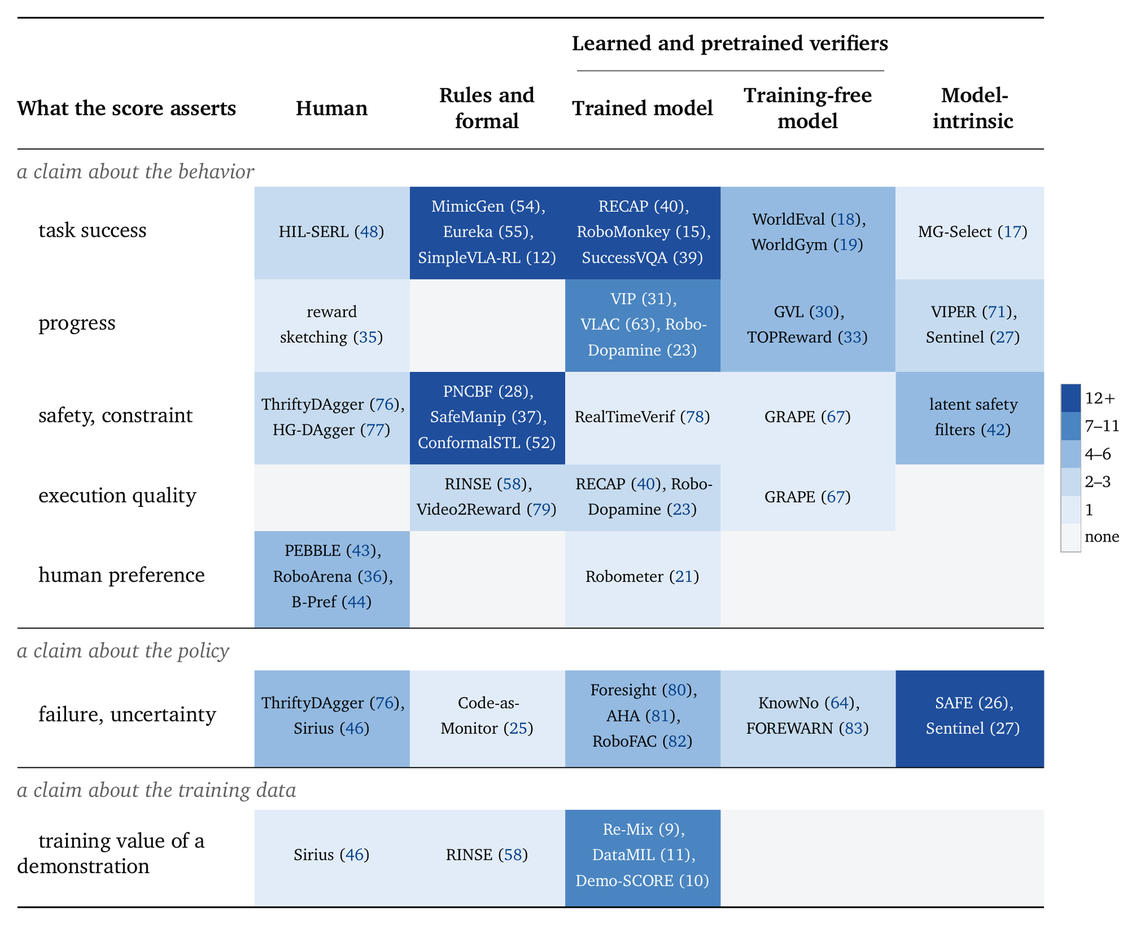
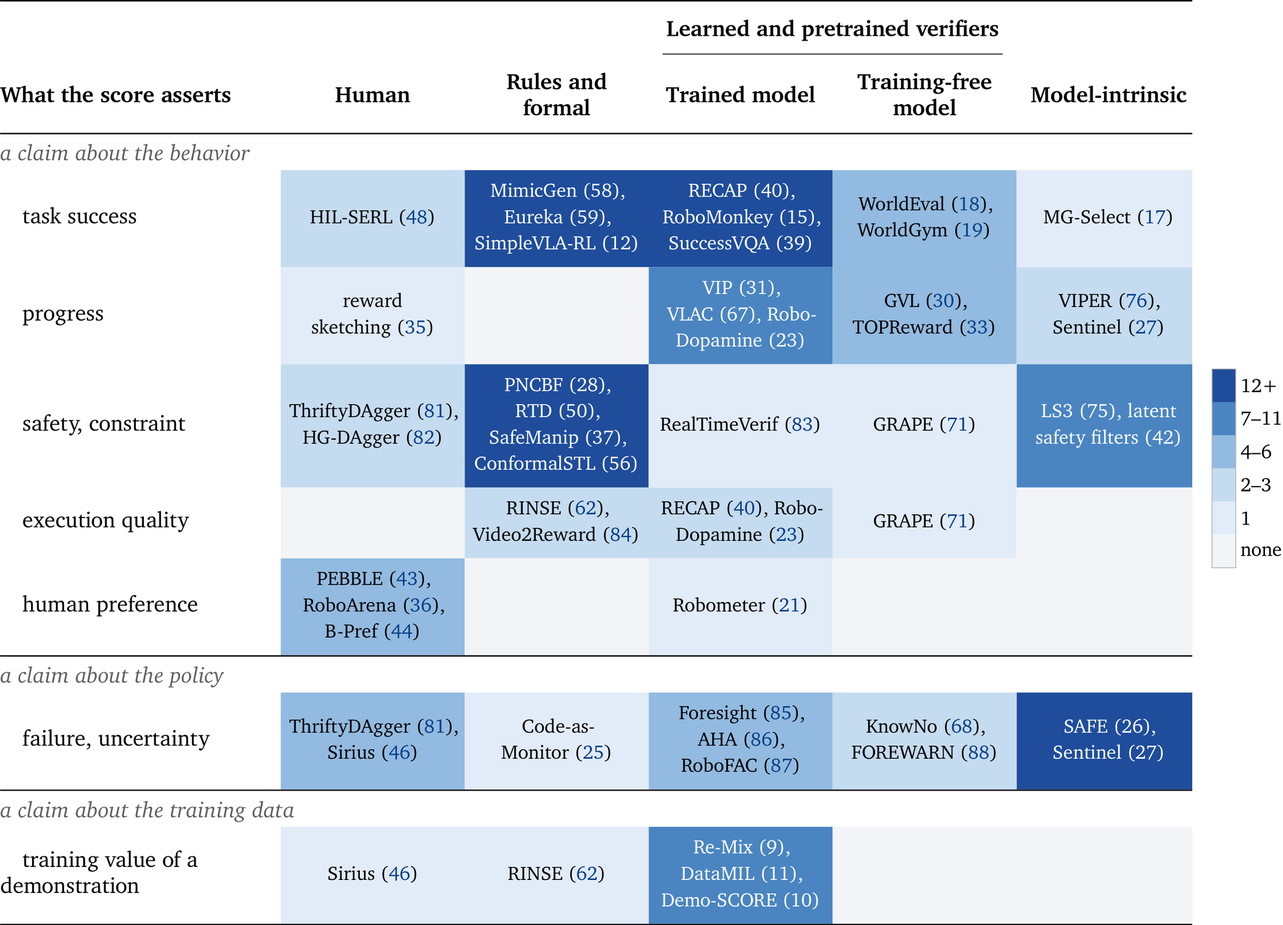
Sync with the survey revision: reachability checks and bib fixes
Regenerated from the survey at jfirst 9c3a272 (changes since a647843).

- 15 new papers: 13 under a new Section 3 group, "Reachability-based
  trajectory checks and safety layers" (RTD, ARMOUR, REFINE, PARC,
  NeuralPARC, Chou et al., Hess et al., fail-safe planning, SaRA, Thumm
  and Althoff, RTS, BRSL, action masking), and LS3 and Lutkus et al.
  under reachability values in Section 5. 184 -> 199 works.
- Corrected records follow refs.bib: CALVIN (RA-L), GRAPE (ICLR
  workshop), and the titles of RoboCasa, LatentSafetyPO, Unhackability.
- build_readme.py: carries the README header edits made by hand, adds
  the new group label, T-RO and ICLR Workshop venue tags, a DOI map
  (tools/dois.json) for the three papers with no arXiv version, and keeps
  a braced organisation author whole (TRI LBM Team, Google DeepMind).
- assets: timeline, property, rules and human re-exported from the
  current PDF and figure sources.
- index.html: counts, the new Section 3 card, the Figure 5 caption, and
  the Table 7 sentence now limited to learned verifiers.

Claude-Session: https://claude.ai/code/session_01EARVwzomiuvZpPbzbKyBgG

diff --git a/index.html b/index.html
@@ -1376,7 +1376,7 @@ table.data td strong { color: var(--ink); }
 
         <p class="hero-subtitle">
           Vision-language-action policies and robot world models are scaling fast, and verification of training
-          data and model behaviour is scaling with them. A curated reading list of <strong>184 works</strong> on
+          data and model behaviour is scaling with them. A curated reading list of <strong>199 works</strong> on
           the mechanisms that supply those verification signals — grouped by
           <strong>who supplies the judgment</strong>, and read along two properties:
           <strong>availability</strong> and <strong>credibility</strong>.
@@ -1433,7 +1433,7 @@ table.data td strong { color: var(--ink); }
 
         <div class="hero-stats" aria-label="Collection statistics">
           <div class="hero-stat">
-            <strong data-count="184">184</strong>
+            <strong data-count="199">199</strong>
             <span>works cataloged</span>
             <small>every one filed exactly once</small>
           </div>
@@ -1709,8 +1709,8 @@ table.data td strong { color: var(--ink); }
           <figure class="figure reveal" style="margin-top: 32px">
             <img
               src="assets/timeline.png"
-              width="1386"
-              height="703"
+              width="2009"
+              height="1011"
               loading="lazy"
               alt="Representative verifier systems plotted by judge source and publication year from 2020 to 2026"
             >
@@ -1757,8 +1757,8 @@ table.data td strong { color: var(--ink); }
           <figure class="figure reveal" style="margin-top: 26px">
             <img
               src="assets/property.png"
-              width="1349"
-              height="779"
+              width="2079"
+              height="1500"
               loading="lazy"
               alt="A table of what a score asserts, plotted against the judge source that supplies the criterion"
             >
@@ -1806,8 +1806,8 @@ table.data td strong { color: var(--ink); }
             <figure class="figure reveal">
               <img
                 src="assets/human.png"
-                width="1800"
-                height="1078"
+                width="3016"
+                height="1500"
                 loading="lazy"
                 alt="Four roles of the human verifier: comparing trajectories, scoring them, intervening during execution, and validating generated rollouts"
               >
@@ -1856,21 +1856,22 @@ table.data td strong { color: var(--ink); }
               available. <strong>Credibility:</strong> strong and sometimes formal guarantees — but only when
               the predefined criteria, state estimates, and dynamics assumptions accurately represent the task.
             </p>
-            <span class="level-total"><strong>43</strong> cataloged works</span>
+            <span class="level-total"><strong>56</strong> cataloged works</span>
           </div>
           <div class="level-layout reverse">
             <figure class="figure reveal">
               <img
                 src="assets/rules.png"
-                width="1536"
-                height="1024"
+                width="1844"
+                height="1500"
                 loading="lazy"
                 alt="Rule-based verifier taxonomy grouped by input type: full trajectory, terminal state, and system model"
               >
               <figcaption class="figure-caption">
                 <strong>Figure 5.</strong> Grouped by what the criterion reads. Temporal-logic scoring, geometric
                 checks, and model-written rules read a full trajectory; a goal predicate reads only the terminal
-                state; invariance certificates and symbolic feasibility checks run over a model of the physics.
+                state; invariance certificates, reachability checks on each candidate trajectory, and symbolic feasibility
+                checks run over a model of the physics.
               </figcaption>
             </figure>
             <div>
@@ -1902,6 +1903,10 @@ table.data td strong { color: var(--ink); }
                 <article class="method-card reveal">
                   <h4>Control barrier functions and safety filters <span class="count-chip">5</span></h4>
                   <p>An invariance certificate proving the robot stays inside a safe set, for every trajectory the dynamics can produce. The theorem applies to the exact value function; a network approximating it carries the guarantee only with a separate verification step.</p>
+                </article>
+                <article class="method-card reveal">
+                  <h4>Reachability-based trajectory checks and safety layers <span class="count-chip">13</span></h4>
+                  <p>Whether the robot can reach an obstacle while tracking one candidate trajectory, from reachable states computed ahead of time. The same check guards a policy's actions while it trains.</p>
                 </article>
                 <article class="method-card reveal">
                   <h4>Symbolic feasibility and task-and-motion planning <span class="count-chip">2</span></h4>
@@ -1995,7 +2000,7 @@ table.data td strong { color: var(--ink); }
               properties of the model itself rather than task performance directly, so their relation to actual
               task success is indirect.
             </p>
-            <span class="level-total"><strong>25</strong> cataloged works</span>
+            <span class="level-total"><strong>27</strong> cataloged works</span>
           </div>
           <div class="level-layout reverse">
             <figure class="figure reveal">
@@ -2031,7 +2036,7 @@ table.data td strong { color: var(--ink); }
                   <p>An imagined rollout is scored down where the learned dynamics model disagrees with itself about it.</p>
                 </article>
                 <article class="method-card reveal">
-                  <h4>Reachability values and latent safety filters <span class="count-chip">7</span></h4>
+                  <h4>Reachability values and latent safety filters <span class="count-chip">9</span></h4>
                   <p>Whether failure can still be avoided from here, computed over a world model's predicted dynamics rather than over how familiar the action looks.</p>
                 </article>
                 <article class="method-card reveal">
@@ -2139,7 +2144,7 @@ table.data td strong { color: var(--ink); }
             <p class="section-subtitle">
               They split by whether the score is used to select or optimized against. The upper block is largely a
               matter of reporting what was already measured; the lower block requires running the verifier against
-              a search, which robotics has yet to do.
+              a search, which robotics has yet to do for a learned verifier.
             </p>
           </div>
 
@@ -2215,7 +2220,7 @@ table.data td strong { color: var(--ink); }
         <div class="wrap">
           <div class="section-head reveal">
             <div class="section-kicker"><span class="badge">≡</span> Reading List</div>
-            <h2 class="section-title">Browse 184 works, each filed exactly once</h2>
+            <h2 class="section-title">Browse 199 works, each filed exactly once</h2>
             <p class="section-subtitle">
               Filed by <strong>what each paper is</strong>, not by the argument the survey cites it for — so a
               category can be searched without reading the survey first. Every entry carries its bibliography key.
@@ -2229,9 +2234,9 @@ table.data td strong { color: var(--ink); }
               <small>Preference, scoring, intervention ↗</small>
             </a>
             <a class="catalog-card reveal" data-site-catalog="rule-based-and-formal-verifiers" target="_blank" rel="noopener noreferrer">
-              <strong>43</strong>
+              <strong>56</strong>
               <span>§3 · Rule-Based &amp; Formal</span>
-              <small>Predicates, temporal logic, certificates ↗</small>
+              <small>Predicates, temporal logic, certificates, reachability ↗</small>
             </a>
             <a class="catalog-card reveal" data-site-catalog="learned-and-pretrained-verifiers" target="_blank" rel="noopener noreferrer">
               <strong>55</strong>
@@ -2239,7 +2244,7 @@ table.data td strong { color: var(--ink); }
               <small>Reward models, success detectors, rankers ↗</small>
             </a>
             <a class="catalog-card reveal" data-site-catalog="model-intrinsic-verifiers" target="_blank" rel="noopener noreferrer">
-              <strong>25</strong>
+              <strong>27</strong>
               <span>§5 · Model-Intrinsic</span>
               <small>Uncertainty, disagreement, reachability ↗</small>
             </a>

diff --git a/tools/build_readme.py b/tools/build_readme.py
@@ -28,7 +28,8 @@ what the survey actually cites and nothing else.
 
 No network access. Links come from the `url` or `doi` field when present, then
 from an arXiv identifier found in `eprint` or in `journal`/`note`/`pages`, then
-from tools/arxiv_ids.json, and fall back to a Google Scholar title search.
+from tools/arxiv_ids.json, then from tools/dois.json for papers that have no
+arXiv version, and fall back to a Google Scholar title search.
 
 tools/arxiv_ids.json maps a citation key to its arXiv identifier. It exists
 because refs.bib now records the venue a paper was finally published in, which
@@ -99,6 +100,12 @@ def clean(s):
 
 
 def authors_short(a):
+    # A first author written as one braced group ({TRI LBM Team}, {Google
+    # DeepMind}) is an organisation; its last word is not a surname.
+    m = re.match(r"\s*\{([^{}]*)\}\s*(and\b|$)", a)
+    if m:
+        org = clean(m.group(1))
+        return org + (" et al." if m.group(2) else "")
     a = clean(a)
     if not a: return ""
     parts = [p.strip() for p in re.split(r"\s+and\s+", a) if p.strip()]
@@ -115,6 +122,10 @@ def authors_short(a):
 
 ARXIV_IDS = json.load(open(os.path.join(os.path.dirname(os.path.abspath(__file__)),
                                         "arxiv_ids.json"), encoding="utf-8"))
+# Papers with no arXiv version at all. refs.bib does not carry their DOI because
+# the survey's bibliography style would print it; the list links it from here.
+DOIS = json.load(open(os.path.join(os.path.dirname(os.path.abspath(__file__)),
+                                   "dois.json"), encoding="utf-8"))
 
 
 def arxiv_id(key, f):
@@ -137,7 +148,8 @@ def link_for(key, f):
     if f.get("url"): return clean(f["url"])
     if f.get("doi"): return "https://doi.org/" + clean(f["doi"])
     aid = arxiv_id(key, f)
-    return "https://arxiv.org/abs/" + aid if aid else ""
+    if aid: return "https://arxiv.org/abs/" + aid
+    return "https://doi.org/" + DOIS[key] if key in DOIS else ""
 
 
 def venue_for(key, f):
@@ -211,6 +223,8 @@ SUBGROUP_LABELS = {
     ("rules", "Sparse reward for reinforcement learning"): "Sparse binary reward for policy training",
     ("rules", "An invariance certificate that holds for every trajectory"):
                                                         "Control barrier functions and safety filters",
+    ("rules", "A reachability check on each candidate trajectory"):
+                                                        "Reachability-based trajectory checks and safety layers",
     ("rules", "A symbolic feasibility check before anything moves"):
                                                         "Symbolic feasibility and task-and-motion planning",
 
@@ -439,6 +453,7 @@ B = {
           "LLM-written reward and monitor code", "Goal predicates in simulation benchmarks",
           "Predicate-filtered demonstration generation", "Sparse binary reward for policy training",
           "Control barrier functions and safety filters",
+          "Reachability-based trajectory checks and safety layers",
           "Symbolic feasibility and task-and-motion planning"]),
  "scorers": dict(head="Learned and pretrained verifiers", anchor="learned-and-pretrained-verifiers", tag="§4",
    desc="A neural model returns the score, either trained on task-specific robot data or queried "
@@ -509,6 +524,7 @@ VENUE_SHORT = [
     ("Transactions on Pattern Analysis",                   "TPAMI"),
     ("Transactions on Neural Networks",                    "TNNLS"),
     ("Transactions on Cyber-Physical Systems",             "ACM TCPS"),
+    ("Transactions on Robotics",                           "T-RO"),
     ("Association for Computational Linguistics",          "ACL"),
     ("International Joint Conference on Artificial Intelligence", "IJCAI"),
     ("European Conference on Artificial Intelligence",     "ECAI"),
@@ -521,6 +537,7 @@ VENUE_SHORT = [
     ("European Control Conference",                        "ECC"),
     ("Conference on Decision and Control",                 "CDC"),
     ("International Conference on Machine Learning",       "ICML"),
+    ("Learning Representations (ICLR) Workshop",           "ICLR Workshop"),
     ("International Conference on Learning Representations", "ICLR"),
     ("Neural Information Processing Systems",              "NeurIPS"),
     ("Conference on Robot Learning",                       "CoRL"),
@@ -530,6 +547,7 @@ VENUE_SHORT = [
 
 
 SITE_URL = "https://zjuscl.github.io/Awesome-Robot-Verifier/"
+ARXIV_URL = "https://arxiv.org/abs/2609.09250"
 CONTACT_EMAIL = "wanyang@zju.edu.cn"
 
 
@@ -576,16 +594,15 @@ def render(REC, SUB, out_path):
     # A plain emoji nav row: each label carries the link, no badge images and no
     # URL set as text.
     w('<p align="center">')
+    w('📄 <a href="%s"><b>arXiv</b></a>&ensp;•&ensp;' % ARXIV_URL)
     w('🌐 <a href="%s"><b>Website</b></a>&ensp;•&ensp;' % SITE_URL)
-    w('🧭 <a href="#how-to-read-an-entry"><b>Taxonomy</b></a>&ensp;•&ensp;')
-    w('🗂 <a href="#contents"><b>Browse</b></a>&ensp;•&ensp;')
+    w('🗂 <a href="#contents"><b>Contents</b></a>&ensp;•&ensp;')
     w('🤝 <a href="CONTRIBUTING.md"><b>Contribute</b></a>')
     w('</p>\n')
-    w('  <!-- TODO(links): add an arXiv entry to the row above once the preprint is public. -->\n')
     w("</div>\n")
-    w("🤝 Contributions are welcome: correct a record the manuscript already uses, or add the paper to the "
+    w("> 🤝 Contributions are welcome: correct a record the manuscript already uses, or add the paper to the "
       "manuscript before proposing it here.\n")
-    w("✉ Contact: %s\n" % CONTACT_EMAIL)
+    w("> ✉ Contact: %s\n" % CONTACT_EMAIL)
     w('<div align="center">')
     w('<img src="assets/teaser.png" width="94%" alt="Availability against credibility, across the four judge sources">')
     w("<br>")

diff --git a/README.md b/README.md
@@ -41,7 +41,7 @@
   - [Scalar and per-timestep annotation](#human.scalar-and-per-timestep-annotation) `1`
   - [Human-in-the-loop intervention](#human.human-in-the-loop-intervention) `8`
   - [Human validation of generated rollouts](#human.human-validation-of-generated-rollouts) `2`
-- [§3 Rule-based and formal verifiers](#rule-based-and-formal-verifiers) `43`
+- [§3 Rule-based and formal verifiers](#rule-based-and-formal-verifiers) `56`
   - [Temporal-logic specifications and satisfaction margins](#rules.temporal-logic-specifications-and-satisfaction-margins) `7`
   - [Trajectory-geometry scoring](#rules.trajectory-geometry-scoring) `1`
   - [LLM-written reward and monitor code](#rules.llm-written-reward-and-monitor-code) `7`
@@ -49,6 +49,7 @@
   - [Predicate-filtered demonstration generation](#rules.predicate-filtered-demonstration-generation) `6`
   - [Sparse binary reward for policy training](#rules.sparse-binary-reward-for-policy-training) `4`
   - [Control barrier functions and safety filters](#rules.control-barrier-functions-and-safety-filters) `5`
+  - [Reachability-based trajectory checks and safety layers](#rules.reachability-based-trajectory-checks-and-safety-layers) `13`
   - [Symbolic feasibility and task-and-motion planning](#rules.symbolic-feasibility-and-task-and-motion-planning) `2`
 - [§4 Learned and pretrained verifiers](#learned-and-pretrained-verifiers) `55`
   - [Dense and process-level reward models](#scorers.dense-and-process-level-reward-models) `15`
@@ -58,12 +59,12 @@
   - [Learned reward for policy optimization](#scorers.learned-reward-for-policy-optimization) `9`
   - [Self-improvement and rollout filtering](#scorers.self-improvement-and-rollout-filtering) `5`
   - [Data curation and demonstration scoring](#scorers.data-curation-and-demonstration-scoring) `9`
-- [§5 Model-intrinsic verifiers](#model-intrinsic-verifiers) `25`
+- [§5 Model-intrinsic verifiers](#model-intrinsic-verifiers) `27`
   - [Runtime failure detection and gating](#intrinsic.runtime-failure-detection-and-gating) `7`
   - [Action selection from policy self-consistency](#intrinsic.action-selection-from-policy-self-consistency) `2`
   - [Generative likelihood and latent discrepancy](#intrinsic.generative-likelihood-and-latent-discrepancy) `3`
   - [Model uncertainty and ensemble disagreement](#intrinsic.model-uncertainty-and-ensemble-disagreement) `4`
-  - [Reachability values and latent safety filters](#intrinsic.reachability-values-and-latent-safety-filters) `7`
+  - [Reachability values and latent safety filters](#intrinsic.reachability-values-and-latent-safety-filters) `9`
   - [Task and environment selection](#intrinsic.task-and-environment-selection) `2`
 
 **Part II — validating a verifier, and what it is pointed at**
@@ -111,7 +112,7 @@ The four judge sources of Part I differ along two properties, and the survey's w
 
 # Part I — verifier methods, by who supplies the judgment
 
-`138` papers across the four judge sources, following §2 to §5 of the survey.
+`153` papers across the four judge sources, following §2 to §5 of the survey.
 
 <div id="human-verifiers"></div>
 
@@ -213,10 +214,10 @@ The four judge sources of Part I differ along two properties, and the survey's w
 - **`ICCV 2025`** [VLABench: A Large-Scale Benchmark for Language-Conditioned Robotics Manipulation with Long-Horizon Reasoning Tasks](https://arxiv.org/abs/2412.18194). *Zhang et al.* `VLABench`
 - **`arXiv 2024`** [BEHAVIOR-1K: A Human-Centered, Embodied AI Benchmark with 1,000 Everyday Activities and Realistic Simulation](https://arxiv.org/abs/2403.09227). *Li et al.* `BEHAVIOR-1K`
 - **`arXiv 2024`** [ManiSkill3: GPU Parallelized Robotics Simulation and Rendering for Generalizable Embodied AI](https://arxiv.org/abs/2410.00425). *Tao et al.* `ManiSkill`
-- **`RSS 2024`** [RoboCasa: Large-Scale Simulation of Household Tasks for Generalist Robots](https://arxiv.org/abs/2406.02523). *Nasiriany et al.* `RoboCasa`
+- **`RSS 2024`** [RoboCasa: Large-Scale Simulation of Everyday Tasks for Generalist Robots](https://arxiv.org/abs/2406.02523). *Nasiriany et al.* `RoboCasa`
 - **`RSS 2024`** [THE COLOSSEUM: A Benchmark for Evaluating Generalization for Robotic Manipulation](https://arxiv.org/abs/2402.08191). *Pumacay et al.* `pumacay2024colosseum`
 - **`NeurIPS D&B 2023`** [LIBERO: Benchmarking Knowledge Transfer for Lifelong Robot Learning](https://arxiv.org/abs/2306.03310). *Liu et al.* `LIBERO`
-- **`ICRA 2022`** [CALVIN: A Benchmark for Language-Conditioned Policy Learning for Long-Horizon Robot Manipulation Tasks](https://arxiv.org/abs/2112.03227). *Mees et al.* `CALVIN`
+- **`RA-L 2022`** [CALVIN: A Benchmark for Language-Conditioned Policy Learning for Long-Horizon Robot Manipulation Tasks](https://arxiv.org/abs/2112.03227). *Mees et al.* `CALVIN`
 
 <div id="rules.predicate-filtered-demonstration-generation"></div>
 
@@ -247,6 +248,24 @@ The four judge sources of Part I differ along two properties, and the survey's w
 - **`arXiv 2023`** [Value Functions are Control Barrier Functions: Verification of Safe Policies using Control Theory](https://arxiv.org/abs/2306.04026). *Tan et al.* `ValueIsCBF`
 - **`Automatica 2021`** [A Predictive Safety Filter for Learning-Based Control of Constrained Nonlinear Dynamical Systems](https://doi.org/10.1016/j.automatica.2021.109597). *Wabersich et al.* `wabersich2021psf`
 - **`ECC 2019`** [Control Barrier Functions: Theory and Applications](https://doi.org/10.23919/ECC.2019.8796030). *Ames et al.* `ames2019cbf`
+
+<div id="rules.reachability-based-trajectory-checks-and-safety-layers"></div>
+
+### Reachability-based trajectory checks and safety layers
+
+- **`T-RO 2025`** [Can't Touch This: Real-Time, Safe Motion Planning and Control for Manipulators Under Uncertainty](https://arxiv.org/abs/2301.13308). *Michaux et al.* `ARMOUR`
+- **`ICRA 2025`** [Guaranteed Reach-Avoid for Black-Box Systems through Narrow Gaps via Neural Network Reachability](https://arxiv.org/abs/2409.13195). *Chung et al.* `NeuralPARC`
+- **`NeurIPS 2024`** [Excluding the Irrelevant: Focusing Reinforcement Learning through Continuous Action Masking](https://arxiv.org/abs/2406.03704). *Stolz et al.* `ActionMasking`
+- **`RSS 2024`** [Goal-Reaching Trajectory Design Near Danger with Piecewise Affine Reach-Avoid Computation](https://doi.org/10.15607/RSS.2024.XX.117). *Chung et al.* `PARC`
+- **`T-RO 2024`** [REFINE: Reachability-Based Trajectory Design Using Robust Feedback Linearization and Zonotopes](https://arxiv.org/abs/2211.11997). *Liu et al.* `REFINE`
+- **`ICRA 2022`** [Provably Safe Deep Reinforcement Learning for Robotic Manipulation in Human Environments](https://arxiv.org/abs/2205.06311). *Thumm et al.* `ThummSafeRL`
+- **`WAFR 2022`** [Safe Output Feedback Motion Planning from Images via Learned Perception Modules and Contraction Theory](https://arxiv.org/abs/2206.06553). *Chou et al.* `ChouWAFR`
+- **`RA-L 2022`** [Safe Reinforcement Learning Using Black-Box Reachability Analysis](https://arxiv.org/abs/2204.07417). *Selim et al.* `BRSL`
+- **`ICRA 2022`** [SaRA: A Tool for Safe Human-Robot Coexistence and Collaboration through Reachability Analysis](https://doi.org/10.1109/ICRA46639.2022.9811952). *Schepp et al.* `SaRA`
+- **`T-RO 2021`** [Fail-Safe Motion Planning for Online Verification of Autonomous Vehicles Using Convex Optimization](https://doi.org/10.1109/TRO.2020.3036624). *Pek et al.* `PekFailSafe`
+- **`RA-L 2021`** [Reachability-Based Trajectory Safeguard (RTS): A Safe and Fast Reinforcement Learning Safety Layer for Continuous Control](https://arxiv.org/abs/2011.08421). *Shao et al.* `RTS`
+- **`IJRR 2020`** [Bridging the Gap between Safety and Real-Time Performance in Receding-Horizon Trajectory Design for Mobile Robots](https://arxiv.org/abs/1809.06746). *Kousik et al.* `RTD`
+- **`IROS 2014`** [Formal Verification of Maneuver Automata for Parameterized Motion Primitives](https://doi.org/10.1109/IROS.2014.6942751). *Hess et al.* `HessManeuver`
 
 <div id="rules.symbolic-feasibility-and-task-and-motion-planning"></div>
 
@@ -327,7 +346,7 @@ The four judge sources of Part I differ along two properties, and the survey's w
 - **`arXiv 2026`** [EVA: Aligning Video World Models with Executable Robot Actions via Inverse Dynamics Rewards](https://arxiv.org/abs/2603.17808). *Wang et al.* `wang2026eva`
 - **`CVPR 2026`** [SRPO: Self-Referential Policy Optimization for Vision-Language-Action Models](https://arxiv.org/abs/2511.15605). *Fei et al.* `SRPO`
 - **`arXiv 2026`** [World Value Models for Robotic Manipulation](https://arxiv.org/abs/2606.24742). *Wang et al.* `wang2026wvm`
-- **`ICLR 2025`** [GRAPE: Generalizing Robot Policy via Preference Alignment](https://arxiv.org/abs/2411.19309). *Zhang et al.* `GRAPE`
+- **`ICLR Workshop 2025`** [GRAPE: Generalizing Robot Policy via Preference Alignment](https://arxiv.org/abs/2411.19309). *Zhang et al.* `GRAPE`
 - **`arXiv 2025`** [VLA-RFT: Vision-Language-Action Reinforcement Fine-tuning with Verified Rewards in World Simulators](https://arxiv.org/abs/2510.00406). *Li et al.* `VLA-RFT`
 - **`arXiv 2025`** [VLA-RL: Towards Masterful and General Robotic Manipulation with Scalable Reinforcement Learning](https://arxiv.org/abs/2505.18719). *Lu et al.* `VLA-RL`
 - **`arXiv 2025`** [π*0.6: a VLA That Learns From Experience](https://arxiv.org/abs/2511.14759). *Intelligence et al.* `RECAP`
@@ -415,8 +434,10 @@ The four judge sources of Part I differ along two properties, and the survey's w
 - **`L4DC 2026`** [How to Train Your Latent Control Barrier Function: Smooth Safety Filtering Under Hard-to-Model Constraints](https://arxiv.org/abs/2511.18606). *Nakamura et al.* `nakamura2025latentcbf`
 - **`CoRL 2025`** [Gameplay Filters: Robust Zero-Shot Safety through Adversarial Imagination](https://arxiv.org/abs/2405.00846). *Nguyen et al.* `GameplayFilters`
 - **`RSS 2025`** [Generalizing Safety Beyond Collision-Avoidance via Latent-Space Reachability Analysis](https://arxiv.org/abs/2502.00935). *Nakamura et al.* `LatentSafetyFilters`
-- **`arXiv 2025`** [How Well Do Latent World Models Understand Partially Observable Safety Constraints?](https://arxiv.org/abs/2510.06492). *Kim et al.* `LatentSafetyPO`
+- **`CDC 2025`** [Latent Representations for Control Design with Provable Stability and Safety Guarantees](https://arxiv.org/abs/2505.23210). *Lutkus et al.* `LatentCertificates`
 - **`CoRL 2025`** [Uncertainty-aware Latent Safety Filters for Avoiding Out-of-Distribution Failures](https://arxiv.org/abs/2505.00779). *Seo et al.* `seo2025uncertainty`
+- **`arXiv 2025`** [What You Don't Know Can Hurt You: How Well do Latent Safety Filters Understand Partially Observable Safety Constraints?](https://arxiv.org/abs/2510.06492). *Kim et al.* `LatentSafetyPO`
+- **`CoRL 2022`** [LS3: Latent Space Safe Sets for Long-Horizon Visuomotor Control of Sparse Reward Iterative Tasks](https://arxiv.org/abs/2107.04775). *Wilcox et al.* `LS3`
 - **`CDC 2017`** [Hamilton-Jacobi Reachability: A Brief Overview and Recent Advances](https://doi.org/10.1109/CDC.2017.8263977). *Bansal et al.* `bansal2017hj`
 
 <div id="intrinsic.task-and-environment-selection"></div>
@@ -457,7 +478,7 @@ The four judge sources of Part I differ along two properties, and the survey's w
 
 <div id="evalmethod.all"></div>
 
-- **`Science Robotics 2026`** [A Careful Examination of Large Behavior Models for Multitask Dexterous Manipulation](https://arxiv.org/abs/2507.05331). *Barreiros et al.* `LBM`
+- **`Science Robotics 2026`** [A Careful Examination of Large Behavior Models for Multitask Dexterous Manipulation](https://arxiv.org/abs/2507.05331). *TRI LBM Team et al.* `LBM`
 - **`RSS 2026`** [Beyond Binary Success: Sample-Efficient and Statistically Rigorous Robot Policy Comparison](https://arxiv.org/abs/2603.13616). *Snyder et al.* `N-SCORE`
 - **`arXiv 2026`** [PhAIL: A Real-Robot VLA Benchmark and Distributional Methodology](https://arxiv.org/abs/2605.29710). *Arkhangelskiy* `PhAIL`
 - **`CoRL 2025`** [Efficient Evaluation of Multi-Task Robot Policies With Active Experiment Selection](https://arxiv.org/abs/2502.09829). *Anwar et al.* `ActiveEval`
@@ -503,7 +524,7 @@ The four judge sources of Part I differ along two properties, and the survey's w
 - **`ICML 2026`** [VLAW: Iterative Co-Improvement of Vision-Language-Action Policy and World Model](https://arxiv.org/abs/2602.12063). *Guo et al.* `guo2026vlaw`
 - **`NeurIPS 2024`** [InfoRM: Mitigating Reward Hacking in RLHF via Information-Theoretic Reward Modeling](https://arxiv.org/abs/2402.09345). *Miao et al.* `InfoRM`
 - **`ICML 2023`** [Scaling Laws for Reward Model Overoptimization](https://arxiv.org/abs/2210.10760). *Gao et al.* `RMOveroptimization`
-- **`NeurIPS 2022`** [Defining and Characterizing Reward Gaming](https://arxiv.org/abs/2209.13085). *Skalse et al.* `Unhackability`
+- **`NeurIPS 2022`** [Defining and Characterizing Reward Hacking](https://arxiv.org/abs/2209.13085). *Skalse et al.* `Unhackability`
 - **`arXiv 2018`** [Categorizing Variants of Goodhart's Law](https://arxiv.org/abs/1803.04585). *Manheim et al.* `GoodhartTaxonomy`
 
 ---
@@ -533,7 +554,7 @@ The four judge sources of Part I differ along two properties, and the survey's w
 
 ### Generalist policies and corpora
 
-- **`arXiv 2026`** [π0.7: a Steerable Generalist Robotic Foundation Model with Emergent Capabilities](https://arxiv.org/abs/2604.15483). *Intelligence et al.* `pi07_2026`
+- **`arXiv 2026`** [π0.7: a Steerable Generalist Robotic Foundation Model with Emergent Capabilities](https://arxiv.org/abs/2604.15483). *Physical Intelligence et al.* `pi07_2026`
 - **`CoRL 2025`** [π0.5: a Vision-Language-Action Model with Open-World Generalization](https://arxiv.org/abs/2504.16054). *Black et al.* `PI05`
 - **`RSS 2025`** [π0: A Vision-Language-Action Flow Model for General Robot Control](https://doi.org/10.15607/RSS.2025.XXI.010). *Black et al.* `black2025pi0`
 - **`ICRA 2024`** [Open X-Embodiment: Robotic Learning Datasets and RT-X Models](https://arxiv.org/abs/2310.08864). *Collaboration et al.* `OXE`
@@ -547,7 +568,7 @@ The four judge sources of Part I differ along two properties, and the survey's w
 - **`RSS 2026`** [Interactive World Simulator for Robot Policy Training and Evaluation](https://arxiv.org/abs/2603.08546). *Wang et al.* `InteractiveWS`
 - **`arXiv 2026`** [SimuScene: Training and Benchmarking Code Generation to Simulate Physical Scenarios](https://arxiv.org/abs/2602.10840). *Wang et al.* `SimuScene`
 - **`arXiv 2025`** [Cosmos World Foundation Model Platform for Physical AI](https://arxiv.org/abs/2501.03575). *NVIDIA et al.* `Cosmos`
-- **`2025`** [Genie 3: A New Frontier for World Models](https://deepmind.google/discover/blog/genie-3-a-new-frontier-for-world-models/). *DeepMind* `deepmind2025genie3`
+- **`2025`** [Genie 3: A New Frontier for World Models](https://deepmind.google/discover/blog/genie-3-a-new-frontier-for-world-models/). *Google DeepMind* `deepmind2025genie3`
 
 ---
 

diff --git a/CONTRIBUTING.md b/CONTRIBUTING.md
@@ -97,7 +97,8 @@ link (those fall back to a Google Scholar title search), and any key cited by
 the manuscript but missing from `refs.bib`. A paper with no `url`, `doi`, or
 arXiv identifier in its bib entry gets its identifier from
 `tools/arxiv_ids.json`; add a line there rather than leaving a Scholar fallback
-in the list.
+in the list. A paper with no arXiv version at all takes its DOI from
+`tools/dois.json` instead.
 
 Note that the script reads only what the manuscript actually typesets: `%`
 comments and `\iffalse ... \fi` blocks are stripped before citations are
